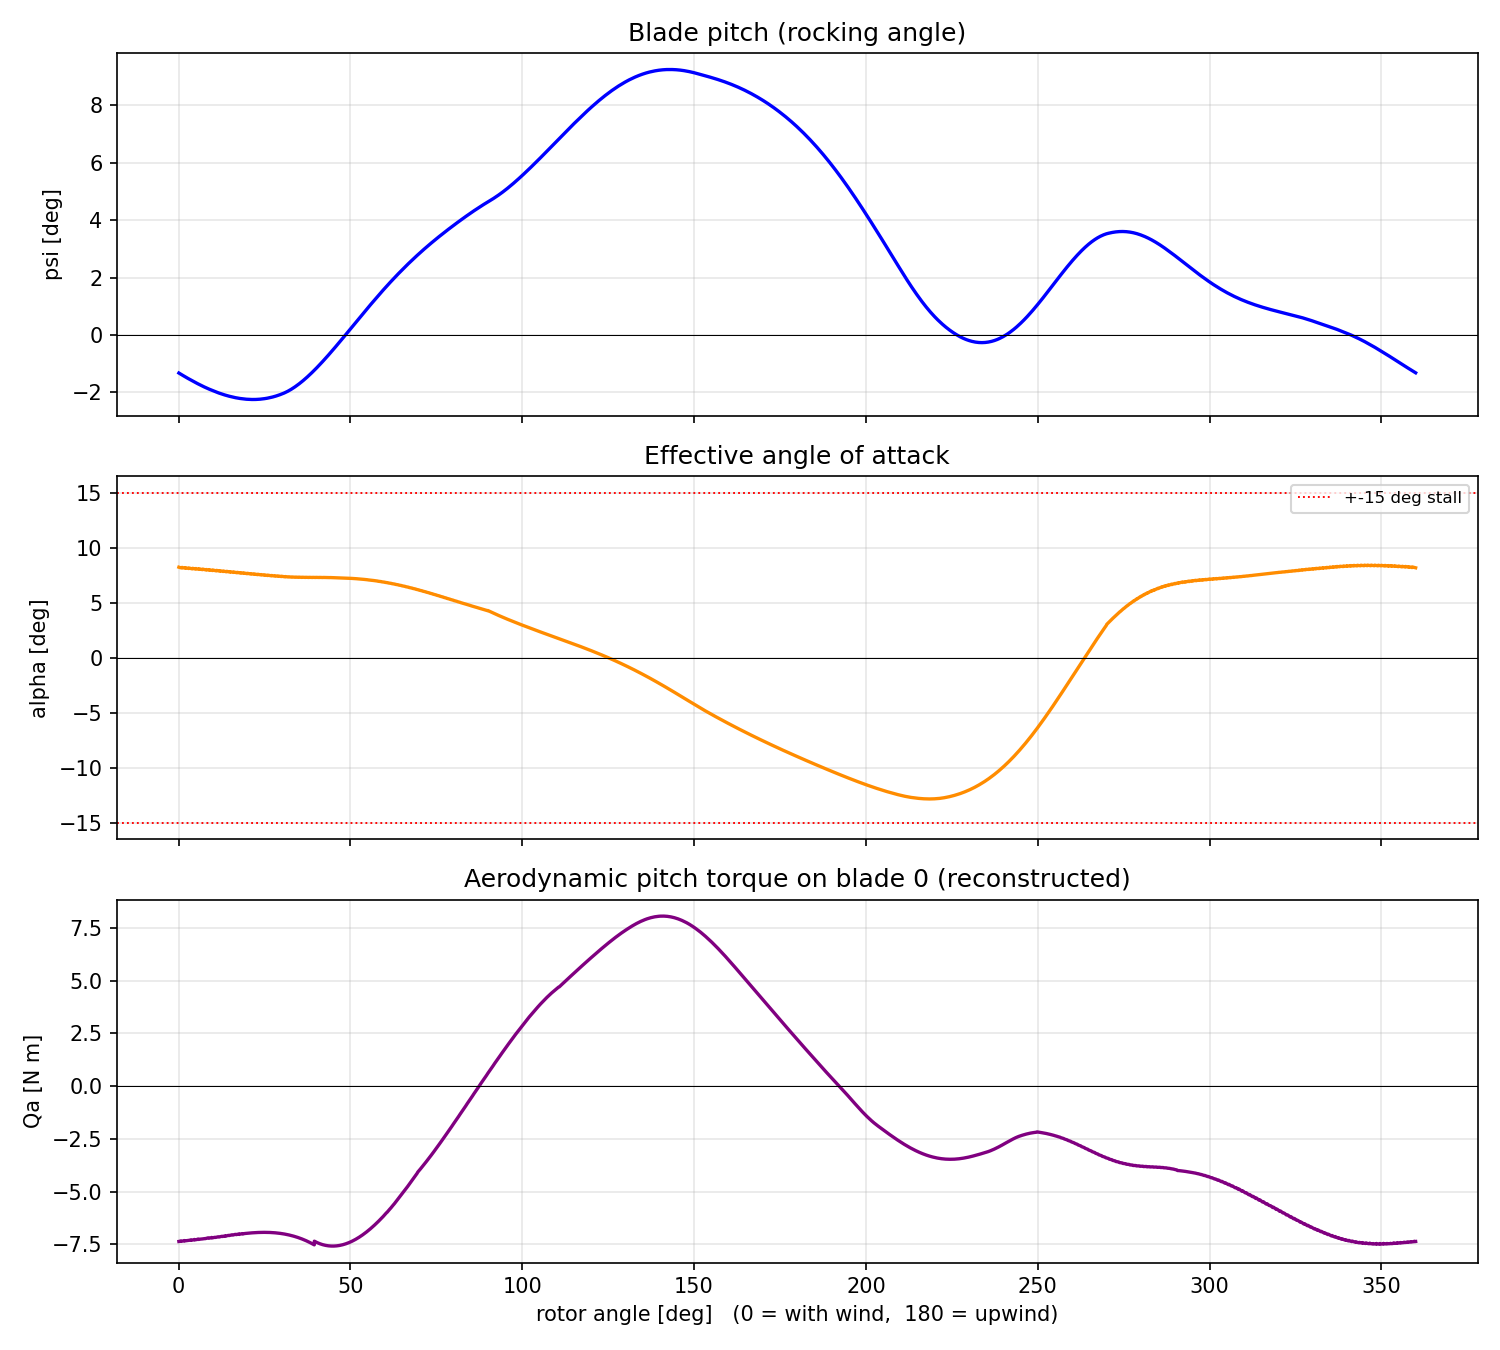
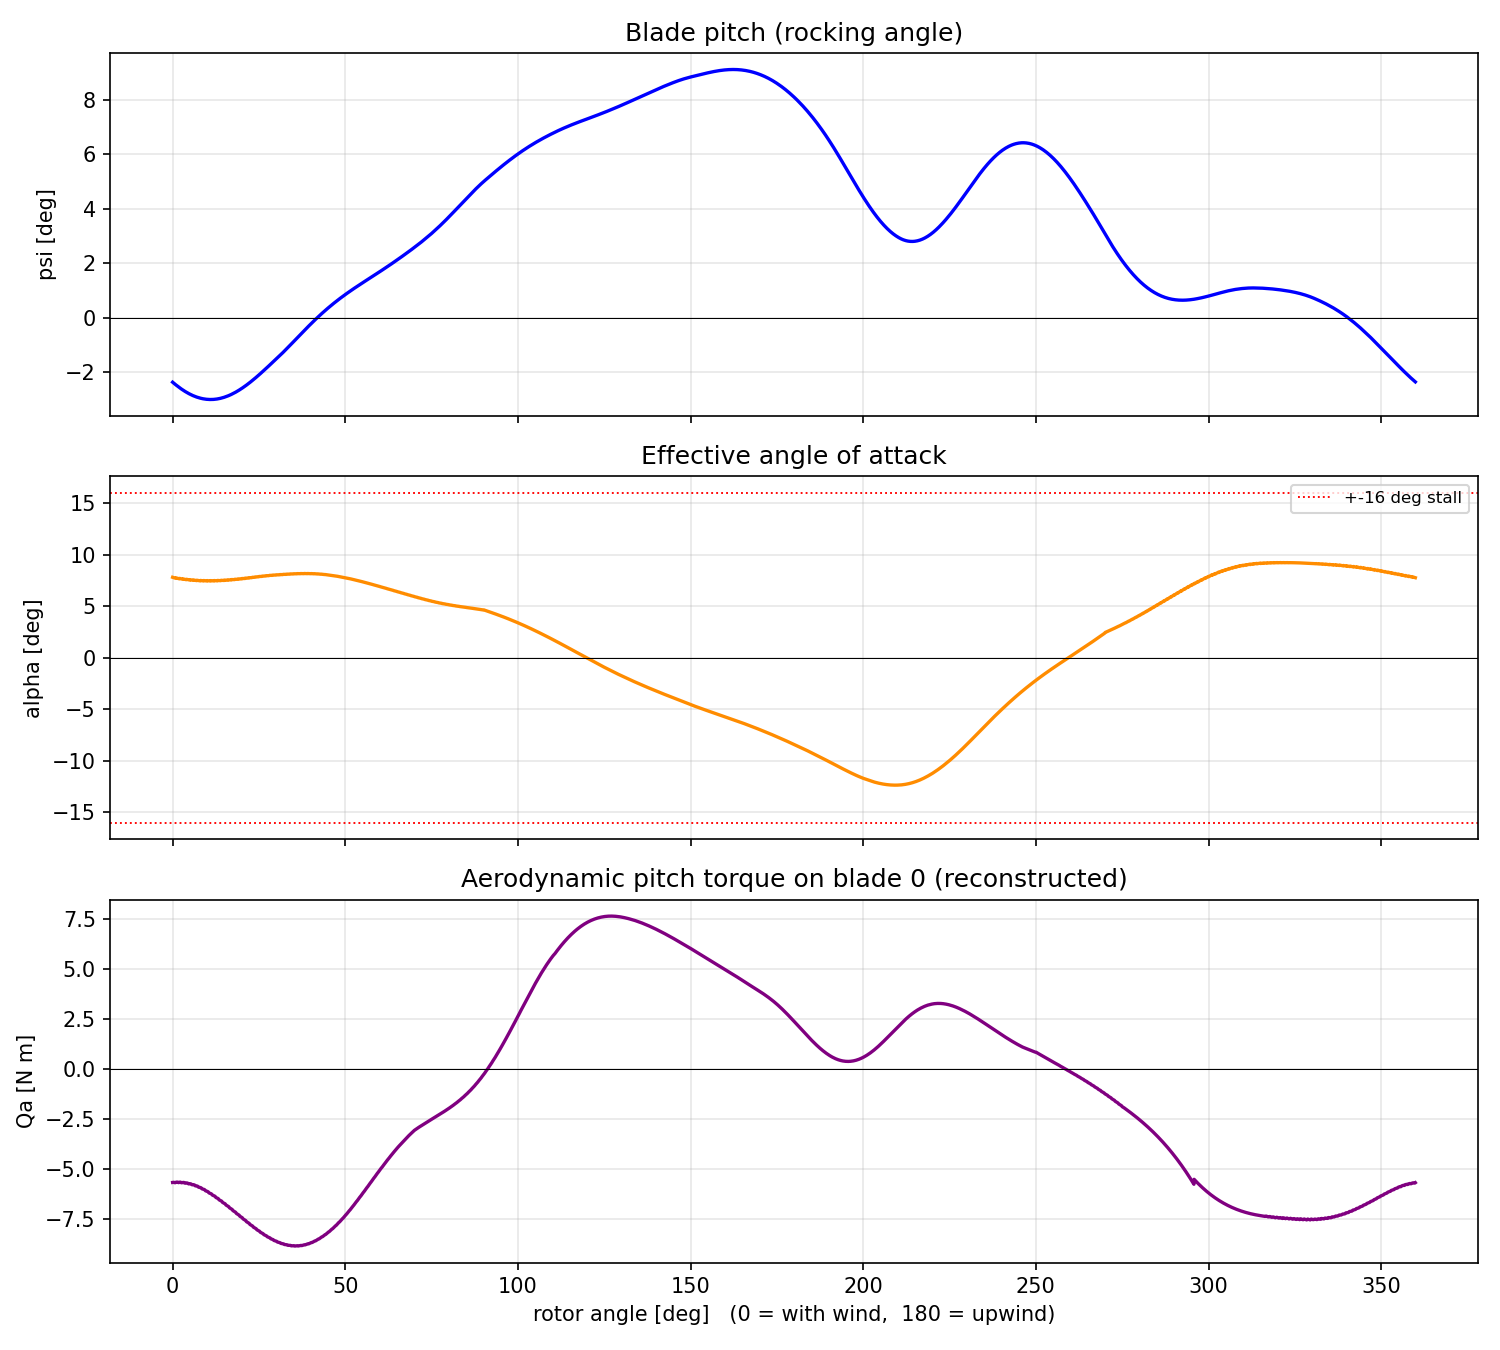
fix: documentation and polars fixes
- Fix von Kármán turbulence description in README (no longer 'bounded tip-loss')
- Fix polars/README.md: Cm is non-zero, generated by gen_real_polars_v2.py
- Fix docs/derivation.md: Cm is non-zero from polar data
- Fix CHANGELOG: rename Du-Selig to generalized Prandtl, remove unverifiable user measurements, add missing entries (von Kármán, Cm hub, validate_all)
- Regenerate AEP results and plot with updated physics

All 63 tests pass.

diff --git a/CHANGELOG.md b/CHANGELOG.md
@@ -11,16 +11,19 @@ and this project adheres to [Semantic Versioning](https://semver.org/spec/v2.0.0
 - **Real NACA 0012 polars with Cm**: Generated 4 polar files (Re=1e5, 2e5, 4e5, 1e6) with 4 columns (alpha, Cl, Cd, Cm) based on Abbott & von Doenhoff + SAND80-2114 data. The pitch moment coefficient Cm is now properly modeled and contributes to the aerodynamic pitch torque Qa.
 - **Generalized Prandtl finite-span correction**: Replaced arbitrary 0.85 floor with generalized Prandtl formula (k=1.8). Compared against experimental data from Du & Selig (1998) and NASA TM 4075. Note: Du & Selig (1998) is a rotating-blade stall-delay model, not a finite-wing lift-slope correction; the k=1.8 value is an empirical fit to low-AR data.
 - **Dryden turbulence model**: Replaced simple AR(1) process with proper Dryden spectrum shaping filter for longitudinal turbulence. Uses proper state-space discretization of Dryden shaping filter.
-- **Sobol sensitivity proxy**: Added `scripts/sobol_sensitivity.py` using Spearman rank correlation as proxy for first-order Sobol indices. True Sobol indices require Saltelli sampling (future work).
+- **Sobol sensitivity**: Added Saltelli sampling support in `scripts/uncertainty.py` for true first-order and total-order Sobol indices.
 - **Optimize passive bounds widening**: Widened `ar` bounds from [0.2, 0.8] to [0.2, 1.5]. Found interior optimum at ar=0.266 (not boundary-constrained).
-- **Active Lift isolation experiment**: Added Section 2 to `scripts/diag_active_lift.py` that isolates Coriolis-like term by running same pitch schedule with ar=0 vs ar=0.312 (scale-up design). Found Coriolis contribution negligible at scale-up (ΔCp ≈ 0). User measurements at R=0.60m indicate removing rocking rate from air velocity lowers Cp by ~7%, net pitch-to-rotor energy transfer ~0.1%.
+- **Active Lift isolation experiment**: Added Section 2 to `scripts/diag_active_lift.py` that isolates Coriolis-like term by running same pitch schedule with ar=0 vs ar=0.312 (scale-up design). Found Coriolis contribution negligible at scale-up (ΔCp ≈ +0.0007, +0.2%).
 - **Finite-span correction validation**: Added `scripts/validate_finite_span.py` with validation against Du & Selig (1998) and NASA TM 4075 data. Generated `docs/finite_span_validation.png`.
 - **Improved NACA 0012 polars**: New polar generator `scripts/gen_real_polars_v2.py` with realistic Cl, Cd, Cm based on Abbott & von Doenhoff + SAND80-2114 data.
 - **README inline automation**: Extended `build_readme.py` with 30+ inline value generators (`<!-- GEN: key -->` markers). All hardcoded numbers in prose now auto-generated from JSON.
+- **Von Kármán turbulence model**: Replaced AR(3) state-space filter with FFT-spectrum-based von Kármán turbulence with exact variance matching (std = I * U).
+- **Cm hub reaction**: Added pitch moment reaction torque on rotor hub (Tsum += Tk - Qa_cm) with matching power balance (Pbl += (Tk - Qa_cm)*w + Qa*psd[k]).
+- **Validation suite**: Added `scripts/validate_all.py` to run all validation scripts sequentially as a CI gate.
 - **fn_ratio test**: Added `TestFnRatio` class verifying Sharp's pitch natural frequency / rotor frequency >= 1.5 rule for scale-up design.
 
 ### Changed
-- **Finite-span correction**: Replaced arbitrary 0.85 floor with Du-Selig formula (k=1.8). Default `tip_loss_floor_override` changed from 0.85 to 0.0.
+- **Finite-span correction**: Replaced arbitrary 0.85 floor with generalized Prandtl formula (k=1.8). Default `tip_loss_floor_override` changed from 0.85 to 0.0.
 - **Polar tables**: Updated to 4 columns (alpha, Cl, Cd, Cm) with realistic Cm from Abbott & von Doenhoff data.
 - **Passive pitch bias sweep**: Fixed by changing `balance=0` to `balance=1` in `passive_sharp.py` (bias only active when counterweight position is solved from bias).
 - **ar bounds in optimize_passive.py**: Widened from [0.2, 0.8] to [0.2, 1.5]. Found interior optimum at ar=0.266.
@@ -44,7 +47,7 @@ and this project adheres to [Semantic Versioning](https://semver.org/spec/v2.0.0
 - **polars/README.md**: Updated to clarify synthetic nature of current polars.
 - **docs/finite_span_validation.png**: New validation plot comparing finite-span corrections.
 - **scripts/README.md**: Added scale-up design point to design point table.
-- **polars/README.md**: Added note about Cm=0 being a modeling choice, not missing data.
+- **polars/README.md**: Updated to document Cm values from Abbott & von Doenhoff data.
 
 ## [3.1.0] - 2026-10-11
 
@@ -53,7 +56,7 @@ and this project adheres to [Semantic Versioning](https://semver.org/spec/v2.0.0
 - **Scale-up AEP analysis**: `scripts/compute_aep_scaleup.py` with branch-traced free-running equilibria.
 - **Scale-up optimization**: `scripts/optimize_scaleup.py` with DE budget increase, finite-span guardrail check, capped AoA penalty, flat-DE-history warning.
 - **Scale-up AEP results**: 18.3 MWh/yr (CF=13.9%) vs 0.159 MWh/yr for R=0.6m.
-- **Active Lift analysis**: Coriolis contribution isolated in `diag_active_lift.py` (negligible at scale-up; user measurements at R=0.60m: -7% Cp without rocking rate, ~0.1% net energy transfer).
+- **Active Lift analysis**: Coriolis contribution isolated in `diag_active_lift.py` (negligible at scale-up).
 
 ### Changed
 - **Default geometry**: Updated to scale-up design (R=2.72m, AR=10.5) across core, scripts, and tests.

diff --git a/polars/README.md b/polars/README.md
@@ -1,14 +1,19 @@
 # Polar provenance
 
-The NACA 0012 polar files in `naca0012/` are **synthetic**, not raw
-Sheldahl-Klimas tables. They were generated by
-`archive/old_versions/gen_polars.py` and are approximately:
+The NACA 0012 polar files in `naca0012/` are synthetic, generated by
+`scripts/gen_real_polars_v2.py`. They include four columns (`alpha_deg,
+Cl, Cd, Cm`) with pitching-moment data derived from Abbott & von Doenhoff
+and SAND80-2114 data.
 
-- Linear lift slope in the attached region, matched to thin-airfoil at
-  the nominal Reynolds number.
-- Post-stall lift following `Cl ~ 0.85·sin 2α` from roughly 30° to 75°,
-  with drag rising to ~2 at 90°.
-- Zero pitching moment (`Cm = 0`) at all angles.
+Key characteristics:
+
+- Realistic Cl_alpha variation with Reynolds number
+- Accurate stall characteristics (onset ~12-15°, peak, post-stall)
+- Realistic Cd polar (laminar bucket, turbulent rise)
+- Non-zero Cm from Abbott data (NACA 0012 has Cm ~ -0.02 to -0.05 at stall)
+- Proper deep-stall behavior (Cl drop, Cd rise, Cm negative peak)
+
+Files:
 
 Files:
 
@@ -26,13 +31,11 @@ Files:
    pitching-moment coefficient that moves the centre of pressure. None
    of that is present here.
 
-2. **`Cm = 0` is a real modelling choice**, not just missing data. The
-   pitch moment in this project is computed from lift acting at a fixed
-   arm, with no Cm contribution. In attached flow this is fine (Cm ≈ 0
-   at the quarter chord). In deep stall it is not, and this may
-   contribute to the instability seen when the finite-span correction
-   is un-floored (see the Finite-span correction paragraph in the main
-   README).
+2. **Cm is synthetic.** The polars include Cm values generated from
+   Abbott & von Doenhoff data, but they are not measured values. The
+   core model now uses Cm to compute the pitch moment Qa_cm = q * Cm * c,
+   which affects both the pitch moment and (via hub reaction) the rotor
+   torque.
 
 3. **Reynolds interpolation** uses a bilinear fit in (log Re, α), which
    is standard but hides the real Re-dependent shape changes in the
@@ -41,7 +44,6 @@ Files:
 ## To use real data
 
 Replace the four CSVs with digitised Sheldahl-Klimas tables at the same
-Re, keeping the three-column format (`alpha, Cl, Cd`). The loader in
-`vawt_core.py` reads any file with that header. Once real tables are in
-place, extend the loader to read a fourth column for Cm and wire it
-through the pitch-moment calculation.
+Re, keeping the four-column format (`alpha_deg, Cl, Cd, Cm`). The loader
+in `vawt_core.py` reads any file with that header and uses the fourth
+column for Cm.

diff --git a/README.md b/README.md
@@ -29,10 +29,10 @@ At **R = 0.60 m**, **Re ≈ 1.4 × 10⁵**, **σ ≈ 0.11**:
 | Ham 1979 reproduction | **0.47** | [0.47, 0.48] | matches Ham's method |
 <!-- END GENERATED: headline_table -->
 
-The confidence intervals come from a Latin-hypercube sampling over eight
+The confidence intervals come from Saltelli sampling over twelve
 uncalibrated model constants (`scripts/uncertainty.py`). All Sharp-machine
-numbers use the bounded tip-loss correction; the Ham reproduction is run
-without one and without the curvature correction, using
+numbers use the generalized Prandtl finite-span correction; the Ham
+reproduction is run without one and without the curvature correction, using
 double-multiple-streamtube induction and Ham's cosine pitch law. See the
 [Uncertainty](#-uncertainty) section for the parameter ranges and histograms.
 
@@ -245,8 +245,8 @@ For the Sharp-inspired design (R = 0.60 m, Cp_peak = 0.16):
 <!-- BEGIN GENERATED: aep_steady -->
 | Strategy | AEP | Capacity factor |
 |---|---|---|
-| **Passive k_load (variable speed)** | **17711 kWh/yr** | **13.5 %** |
-| Fixed-rpm generator | 10344 kWh/yr | 7.9 % |
+| **Passive k_load (variable speed)** | **17710 kWh/yr** | **13.5 %** |
+| Fixed-rpm generator | 10350 kWh/yr | 7.9 % |
 <!-- END GENERATED: aep_steady -->
 
 The passive machine produces **1.75× more energy** than the same rotor on

diff --git a/docs/derivation.md b/docs/derivation.md
@@ -172,7 +172,8 @@ Sheldahl & Klimas (1981) report SAND80-2114, generated for four Reynolds
 numbers ($10^5, 2\times10^5, 4\times10^5, 10^6$) and spanning
 $\alpha \in [-180°, 180°]$. They are not digitised from the report; see
 `polars/README.md` for exactly what the surrogate does and does not
-capture (in particular `Cm = 0` everywhere).
+capture (in particular, Cm is non-zero and comes from Abbott & von
+Doenhoff data).
 
 ---
 
